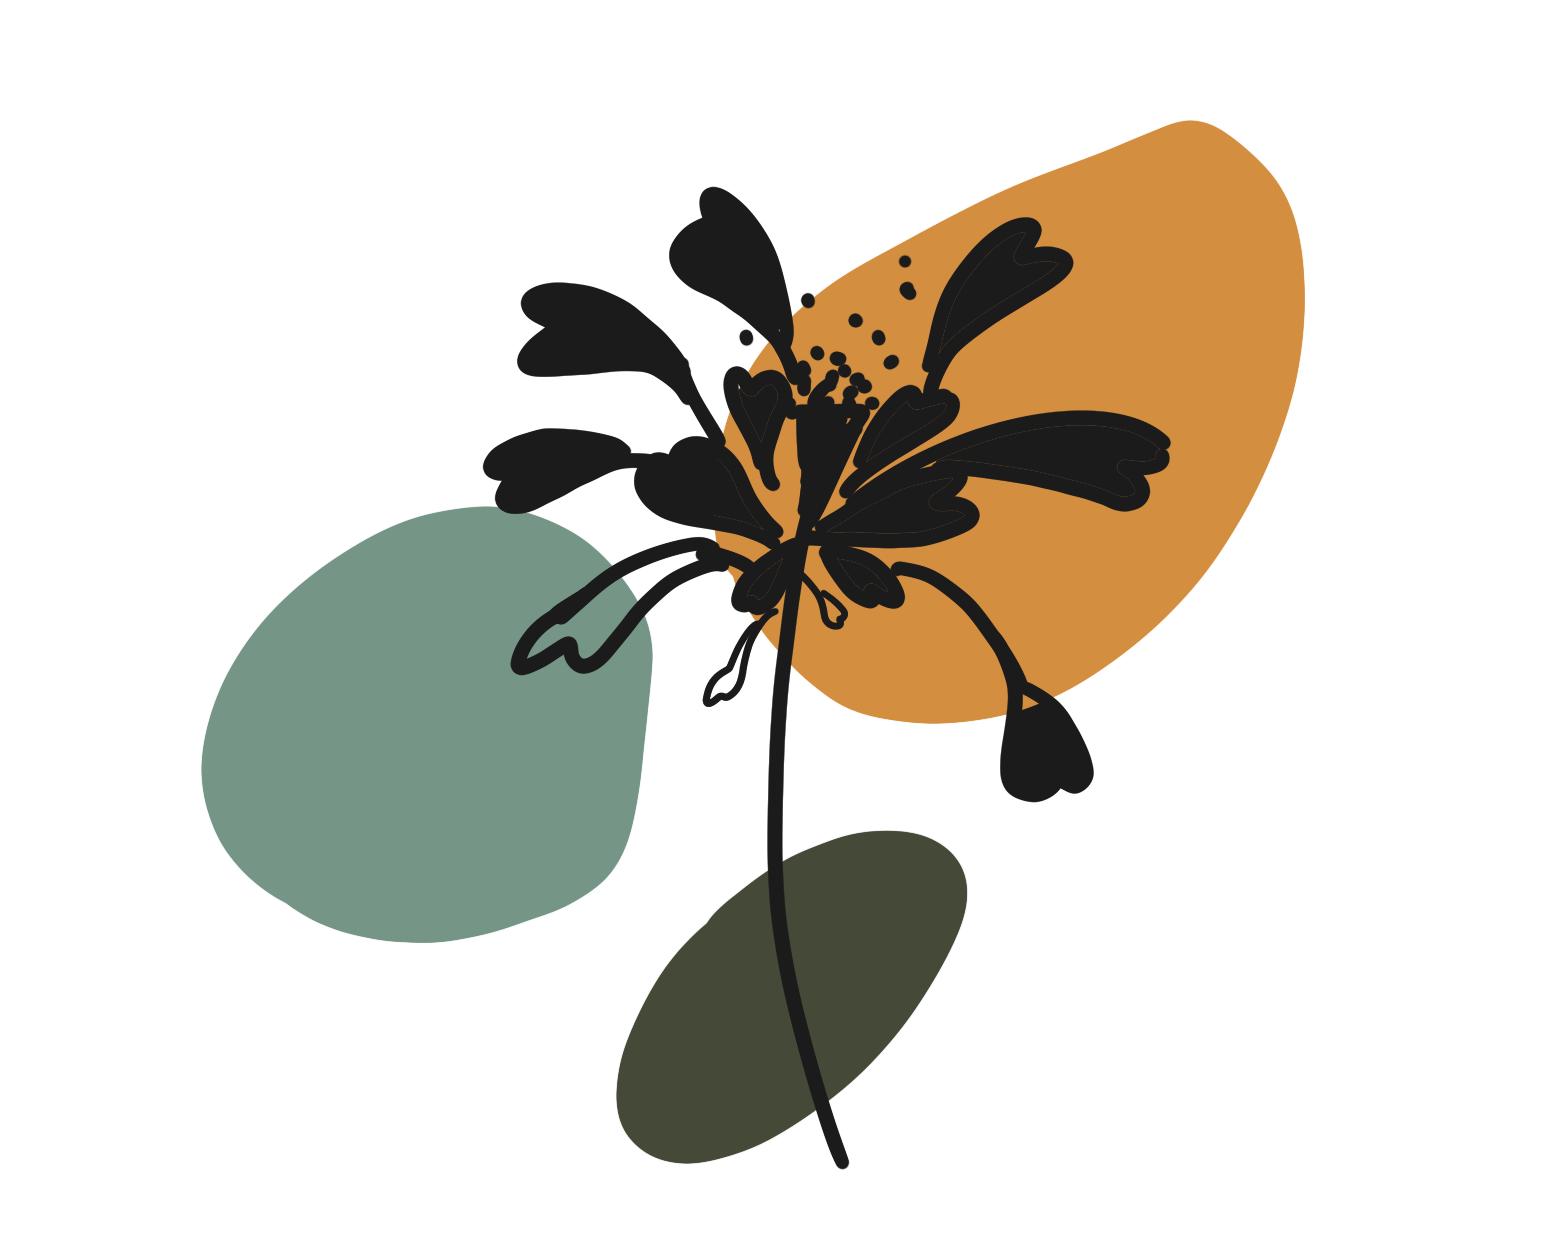
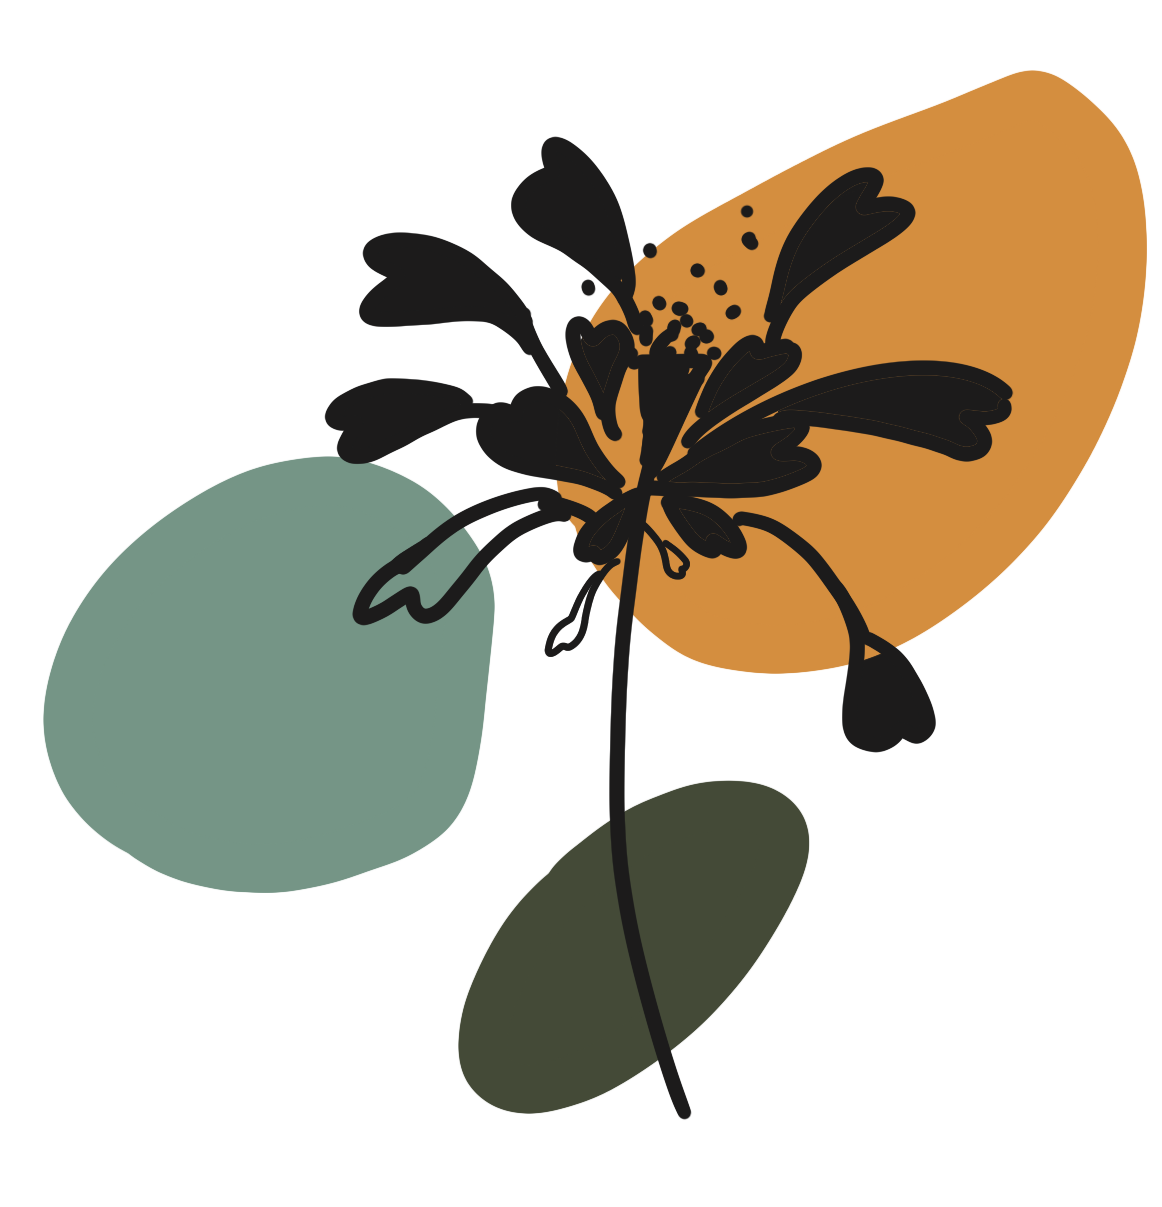
complete code
fix image size, complete js

diff --git a/list.js b/list.js
@@ -1,17 +1,16 @@
+// I learned coding from https://www.youtube.com/watch?v=-pRg_daFjfk
+
 let addToDoBTN = document.getElementById("add-button");
 let inputToDo = document.getElementById("todo-input");
 let todoContainer = document.getElementById("todo-list-container");
-let checkToDoBTN = document.querySelector(".finishBTN");
-let itemElement = document.querySelector(".todo-item");
 
 addToDoBTN.addEventListener("click", addToDo);
-checkToDoBTN.addEventListener("click", checkToDo);
 
 function addToDo() {
-  const toDoList = document.createElement("p");
-  toDoList.innerText = inputToDo.value;
-  toDoList.classList.add("todo-item");
-  todoContainer.appendChild(toDoList);
+  const toDoParagraph = document.createElement("p");
+  toDoParagraph.innerText = inputToDo.value;
+  toDoParagraph.classList.add("todo-item");
+  todoContainer.appendChild(toDoParagraph);
 
   const finishBTN = document.createElement("button");
   finishBTN.innerText = "✓";
@@ -22,8 +21,26 @@ function addToDo() {
   removeBTN.innerText = "−";
   removeBTN.classList.add("remove-button");
   todoContainer.appendChild(removeBTN);
+
+  inputToDo.value = "";
+
+  finishBTN.addEventListener("click", function () {
+    toDoParagraph.style.textDecoration = "line-through";
+  });
+
+  removeBTN.addEventListener("click", function () {
+    todoContainer.removeChild(toDoParagraph);
+    todoContainer.removeChild(finishBTN);
+    todoContainer.removeChild(removeBTN);
+  });
 }
 
-function checkToDo() {
-  itemElement.style.textDecoration = "line-through";
-}
+// function checkToDo() {
+//   const toDoParagraph = document.querySelector(".todo-item");
+//   toDoParagraph.style.textDecoration = "line-through";
+// }
+// function removeToDo() {
+//   todoContainer.removeChild(toDoParagraph);
+//   todoContainer.removeChild(finishBTN);
+//   todoContainer.removeChild(removeBTN);
+// }

diff --git a/main.css b/main.css
@@ -43,7 +43,7 @@ img {
   height: 1.5em;
   padding: 10px;
   font-size: 1em;
-  min-width: 20vw;
+  /* min-width: 20vw; */
   background-color: rgb(192, 208, 208);
   border: none;
 }
@@ -57,11 +57,11 @@ img {
   margin-top: 8%;
   display: grid;
   grid-template-columns: 2fr 0.5fr 0.5fr;
+  row-gap: 0.2em;
 }
 
 .finish-button {
   border: 0;
-
   background-color: rgb(85, 150, 150);
   padding: 10px;
   font-size: 0.6em;
